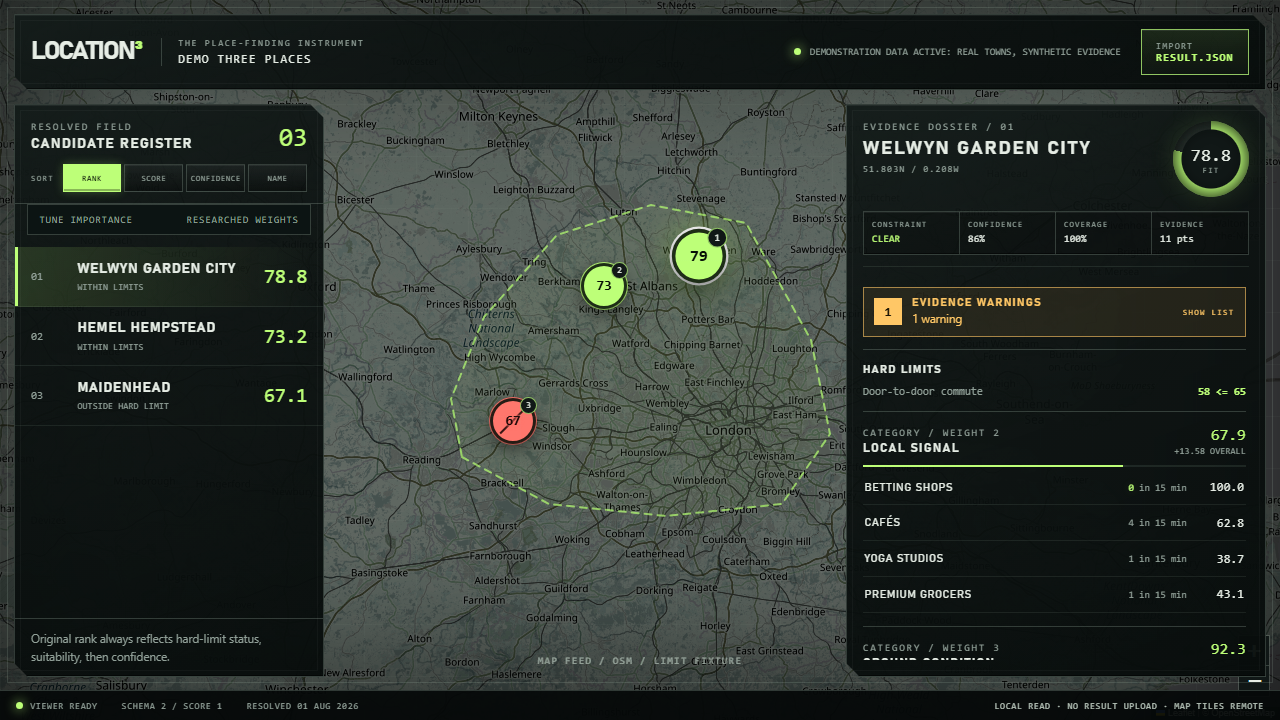
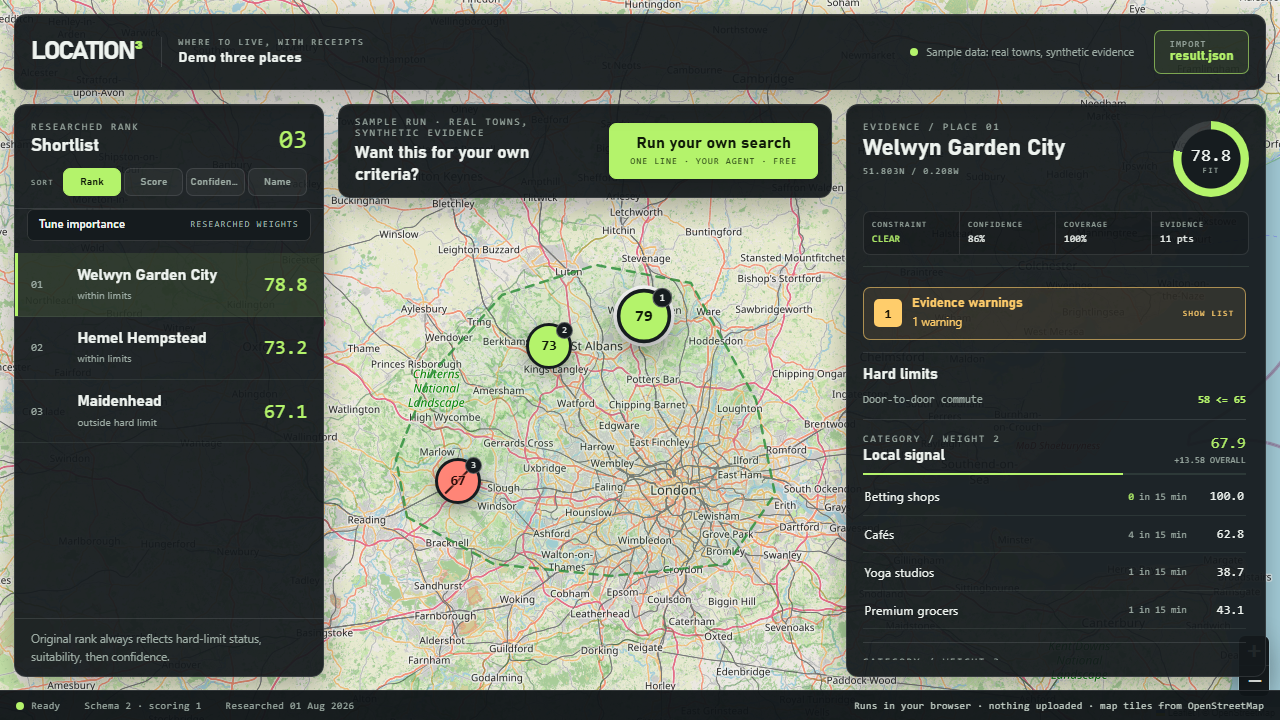
Refresh the screenshots and record the reskin

diff --git a/app/e2e/screenshots.spec.ts b/app/e2e/screenshots.spec.ts
@@ -15,7 +15,7 @@ const outputDirectory = resolve(process.cwd(), "../docs/screenshots");
 test.describe("documentation screenshots", () => {
   test.skip(!capture, "set CAPTURE_SCREENSHOTS=1 to refresh docs/screenshots");
 
-  test("captures the instrument", async ({ page }, testInfo) => {
+  test("captures the viewer", async ({ page }, testInfo) => {
     mkdirSync(outputDirectory, { recursive: true });
     await page.goto("./");
     await expect(page.getByRole("heading", { name: "Shortlist" })).toBeVisible();

diff --git a/MUSINGS.md b/MUSINGS.md
@@ -981,8 +981,27 @@ Luke looked at the live front door and said it was a bit ugly, and that the aest
 - The modal's two choices are labelled rows ("Your agent", "Your shell") of segmented keys, the command block is the hero with a lime "Copy" button in its header that flips to "Copied", and "What happens next" is three steps that still say the agent never assigns a score and there are at most two provider calls. The close button and the copy button lost their shouting.
 - Verified: typecheck and build clean, 78 Vitest tests, 38 Playwright tests (36 passed, the 2 screenshot captures skipped) with axe clean on both modals, screenshots at 1440, 1280, and 390 with the modal open and closed.
 
+### P24 completion note
+
+- The four README screenshots were recaptured from the new build with live tiles, and the README's captions and part table now use "viewer", "shortlist", and "evidence". No file under `README.md`, the skill, or `AGENTS.md` still says "instrument", "register", or "dossier" as a product noun; class names and the `chromium-dossier.png` filename stay so links and tests do not move.
+- Verified on 2026-09-03: typecheck and build clean, 78 Vitest tests, 38 Playwright tests (36 passed plus the two screenshot captures, which ran for real this time) with axe clean on both modals, the CI private-material grep passes on the fresh `app/dist`, and no JSON is shipped in it. Nothing in Python changed.
+
 ### Decisions
 
 - Dark stays: the panels float over a light, colourful map, so the score colours and the map both read. A paper reskin was the other route and is a rewrite of every panel.
 - The plumbob, the quips, and the "knocking on doors" captions stay; they finally fit the room.
 - The viewer still makes no request beyond OpenStreetMap tiles; the reskin uses system fonts only.
+
+## 2026-09-03 — Where the Project Stands After the Reskin
+
+### State
+
+- The viewer looks like what it is: a colourful OpenStreetMap map with three dark cards floating over it, a shortlist, the evidence for one place, and a short invite to run your own search. The chamfers, glows, grid, scan line, and console nouns are gone; the plumbob and the quips stay.
+- Five commits after 0f4bb4d (plan, map, panels, words, front door, evidence). Reverting to 0f4bb4d restores the old look in one step.
+- Nothing in Python changed. The viewer still makes no request beyond map tiles, uses system fonts only, and the CI private-material grep passes on the fresh build.
+
+### Not yet done
+
+- Not pushed. The live demo still serves the console look until `main` is pushed and **Deploy viewer to Pages** is run.
+- The first real end-to-end run from a pasted line on a clean machine is still the next thing to watch.
+- The README screenshots were recaptured; the phone screenshot's header still overlaps the top of the map, which is by design but worth a look on a real phone.

diff --git a/README.md b/README.md
@@ -308,8 +308,8 @@ the synthetic public demo, never ignored preferences or private research runs.
 
 ## Inspiration and licence
 
-The full-bleed map, machined chrome, technical typography, and the deliberate
-"resolve costs something" posture are inspired by
+The full-bleed map, the deliberate "resolve costs something" posture, and the
+viewer's original machined look (since relaxed) are inspired by
 [GL4SS](https://github.com/elder-plinius/GL4SS). LOCATION³ is an independent
 implementation: no GL4SS code, prose, shaders, names, or assets are used, so its
 AGPL terms do not apply here.
